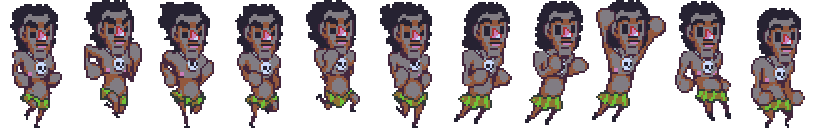
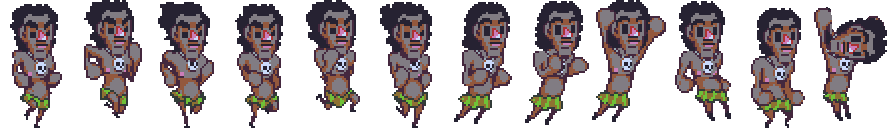
Making dash work.

diff --git a/platformer/Player.js b/platformer/Player.js
@@ -10,7 +10,7 @@ Player = function (theGame) {
     this.mFlickeringTimer;
 
     // Constructor
-    Phaser.Sprite.call(this, theGame, 50, theGame.width * 0.15, 'player');
+    Phaser.Sprite.call(this, theGame, theGame.width * 0.15, theGame.world.centerY + 10, 'player');
     this.init();
 };
 
@@ -23,6 +23,7 @@ Player.prototype.constructor = Player;
 Player.prototype.init = function() {
     this.animations.add('run', [0, 1, 2, 3, 4, 5], 10, true);
     this.animations.add('jump', [6, 7, 8, 8, 9, 10], 5, true);
+    this.animations.add('dash', [11], 5, true);
 
     this.game.physics.enable(this, Phaser.Physics.ARCADE);
     this.body.collideWorldBounds = true;
@@ -32,7 +33,7 @@ Player.prototype.init = function() {
     this.mActionTimer = 0;
     this.mHealth = Constants.GAME_HEALTH_MAX;
 
-    this.animations.play('run');
+    this.run();
 };
 
 Player.prototype.update = function() {
@@ -44,7 +45,11 @@ Player.prototype.update = function() {
 
         if(this.mActionTimer <= 0) {
             this.jumping = false;
-            this.dashing = false;
+
+            if(this.dashing) {
+                this.dashing = false;
+                this.run();
+            }
         }
     }
 
@@ -56,6 +61,15 @@ Player.prototype.update = function() {
         if(this.mFlickeringTimer <= 0) {
             this.visible = true;
         }
+    }
+};
+
+Player.prototype.run = function() {
+    if(this.animations.currentAnim.name != "run") {
+        this.body.setSize(20, 120, 30, 0);
+        this.anchor.set(0);
+        this.angle = 0;
+        this.animations.play('run');
     }
 };
 
@@ -72,9 +86,13 @@ Player.prototype.jump = function() {
 Player.prototype.dash = function() {
     if(!this.dashing) {
         this.dashing = true;
-        this.animations.play('jump');
+        this.animations.play('dash');
+        this.body.setSize(100, 30, 0, 0);
+        this.anchor.set(0.5);
+        this.angle = -90;
+        this.y += this.height;
 
-        this.mActionTimer = 500;
+        this.mActionTimer = 1000;
     }
 };
 

diff --git a/platformer/PlayState.js b/platformer/PlayState.js
@@ -20,7 +20,6 @@ PlayState = function() {
 		// Init physics
 		this.game.physics.startSystem(Phaser.Physics.ARCADE);
 		this.game.physics.setBoundsToWorld();
- 		this.game.physics.arcade.gravity.y = 1000;
 		this.game.time.desiredFps = 30;
 
 		// Init entities
@@ -86,16 +85,19 @@ PlayState = function() {
 			}
 	    }
 
-		if (!mPlayer.jumping) {
-			this.game.physics.arcade.collide(mPlayer, mLevel.getFloor(), function() {
-				if(!mPlayer.dashing) {
-					mPlayer.animations.play('run');
-				}
-			}, null, this);
-		}
-
+		this.game.physics.arcade.overlap(mPlayer, mLevel.getFloor(), this.handleFloorCollision);
 		this.game.physics.arcade.overlap(mPlayer, mLevel.getSlopes(), this.handleMovesOnSlopes);
 		this.game.physics.arcade.overlap(mPlayer, mLevel.getObstacles(), this.handleObstacleOverlap);
+	};
+
+	this.handleFloorCollision = function(thePlayer, theObstacle) {
+		if(thePlayer.y + thePlayer.body.height > theObstacle.y) {
+			thePlayer.y = theObstacle.y - thePlayer.body.height;
+		}
+
+		if(!thePlayer.dashing) {
+			thePlayer.run();
+		}
 	};
 
 	this.handleObstacleOverlap = function(thePlayer, theObstacle) {
@@ -120,6 +122,10 @@ PlayState = function() {
 
 			}
 		}
+	};
+
+	this.render = function() {
+		//this.game.debug.body(mPlayer);
 	};
 
 	// Getters
